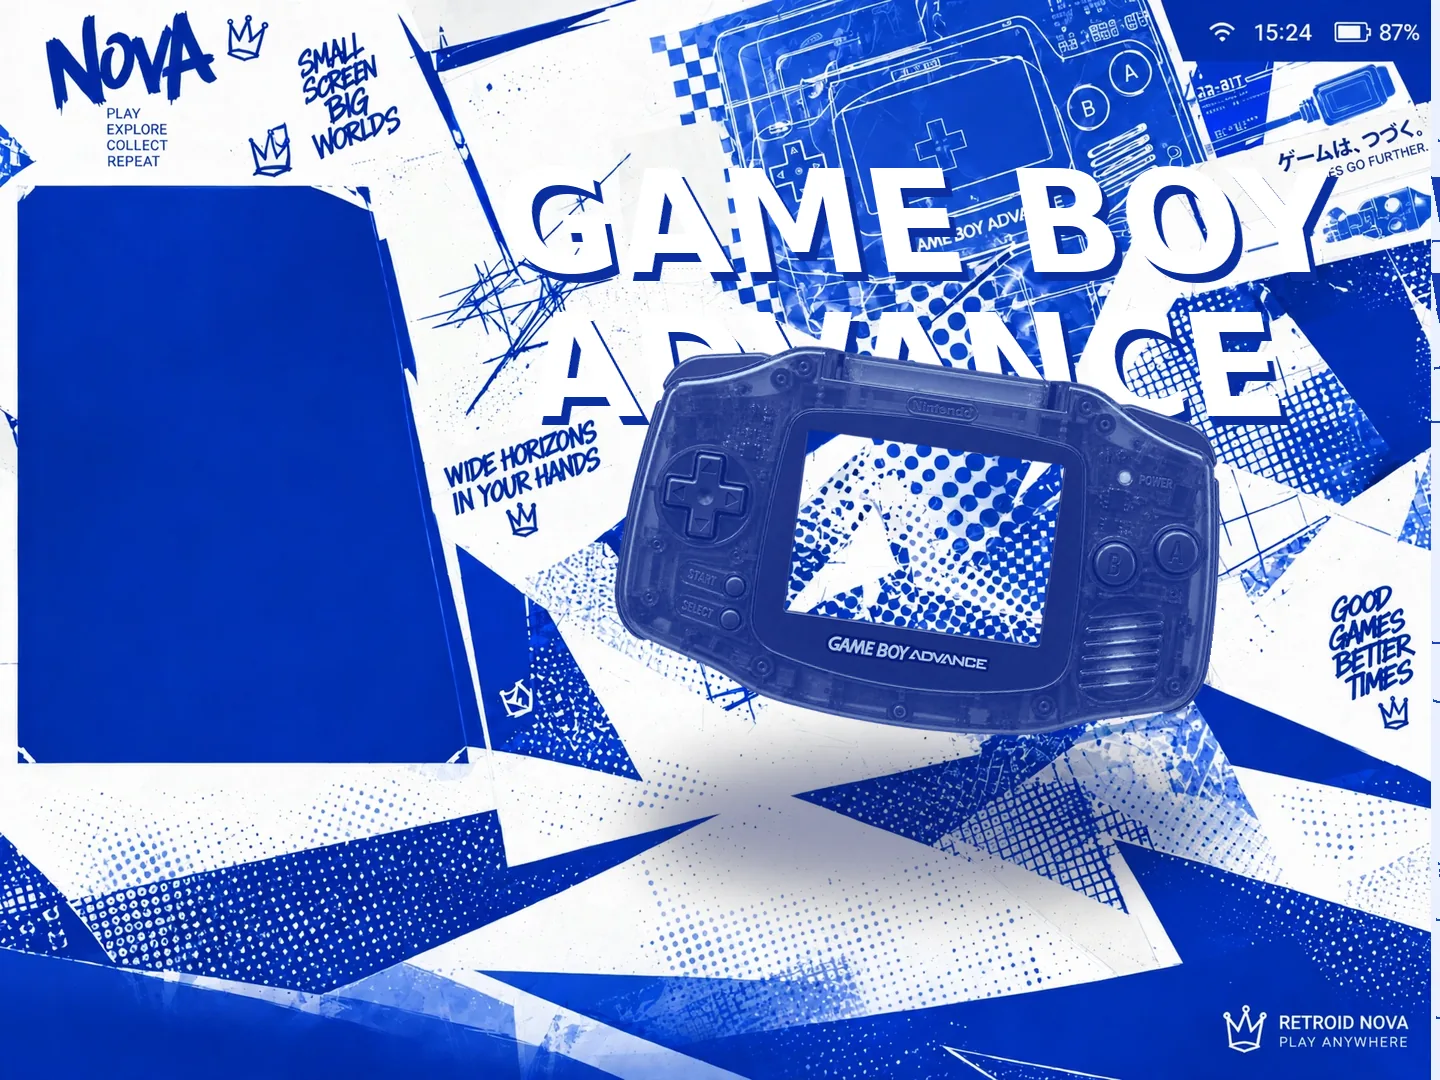
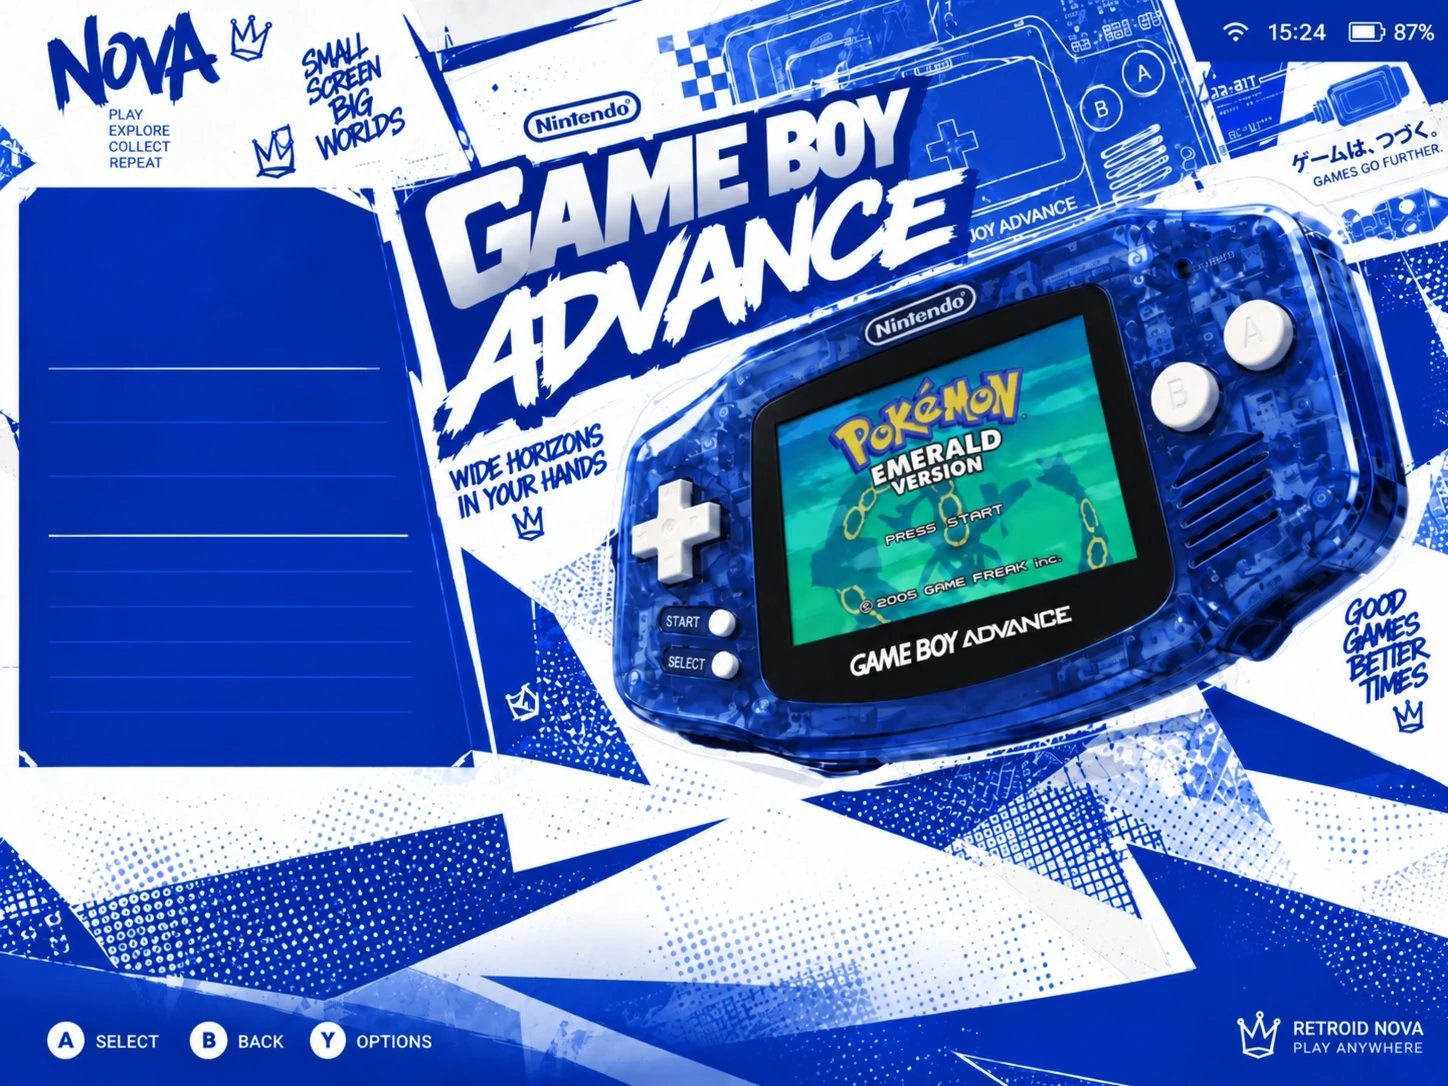
v3.4.0: 7 new supplied 4:3 heroes (gba, nds, psp, ps2, dreamcast, genesis, megadrive)

diff --git a/work/compose_v34.py b/work/compose_v34.py
@@ -1,0 +1,61 @@
+#!/usr/bin/env python3
+"""Crystal ES-DE v3.4.0: integrate the 7 new supplied 4:3 heroes.
+
+Each source file was READ (not guessed from attachment order) and verified
+to depict the system it is mapped to:
+  gba       -> d9: GAME BOY ADVANCE (Pokemon Emerald)
+  nds       -> 73: NINTENDO DS (Pokemon Diamond)
+  psp       -> 0c: PLAYSTATION PORTABLE PSP (God of War: Chains of Olympus)
+  ps2       -> 55: PlayStation 2 (DualShock 2)
+  dreamcast -> c2: Dreamcast "GOOD GAMES LIVE ON" (blue spiral)
+  genesis   -> da: SEGA GENESIS
+  megadrive -> 4f: SEGA MEGA DRIVE
+The unused Dreamcast alternate (95: "IT'S THINKING", orange spiral) also
+passes the vet; it was skipped in favour of the blue-spiral variant which
+sits better in Crystal's blue/white language.
+
+All pass the design-language vet and the 4:3 contract: they render DIRECTLY
+as fullscreen backgrounds, zero matte, zero bars, no crop, no stretch.
+Re-sent files already integrated (snes, gc, n64, gbc, n3ds) are untouched.
+"""
+import os
+import sys
+
+sys.path.insert(0, os.path.dirname(os.path.abspath(__file__)))
+from PIL import Image
+import compose_v3 as C3
+
+MEDIA = '/home/hatch/workspace/user/media_library/image'
+OUT_BG = C3.OUT_BG
+
+# system -> (filename, verified description)
+HEROES = {
+    'gba': ('d9/d92a4a1770b32cb0f735f9036f4d113a23263cc4e49515bec9ccbedf087ba763.jpg',
+            'GAME BOY ADVANCE'),
+    'nds': ('73/732a1a8500aa3499dcfa809e4510d157afc7aaf1cdc95530dea9cea353ed7e9d.jpg',
+            'NINTENDO DS'),
+    'psp': ('0c/0cb230445feb89e548ff14962a27ad877789c48acb2885aa4a93c22f0e0a162d.jpg',
+            'PLAYSTATION PORTABLE PSP'),
+    'ps2': ('55/5560d041caa0b2c5c330ff6fb294ca2e3f8844715f1a6b6f1ab1077e472c08f2.jpg',
+            'PlayStation 2'),
+    'dreamcast': ('c2/c2f82423acaa58ac5dc06209e0a410fa4796487202b6dce80baf58acd96debd6.jpg',
+                  'Dreamcast GOOD GAMES LIVE ON'),
+    'genesis': ('da/dabd249a36f0be9b9c0222cd82bb52bef9676498c65d2c2aa6511d9c602e3dd4.jpg',
+                'SEGA GENESIS'),
+    'megadrive': ('4f/4f5a479928fe899757b84520cd70191d91edbefb21c9483fee707847c1d5826a.jpg',
+                  'SEGA MEGA DRIVE'),
+}
+
+
+def main():
+    for sys, (rel, desc) in HEROES.items():
+        src = os.path.join(MEDIA, rel)
+        im = Image.open(src).convert('RGB')
+        assert abs(im.size[0] / im.size[1] - 4 / 3) < 0.01, f'{sys} not 4:3: {im.size}'
+        im.save(os.path.join(OUT_BG, f'{sys}.webp'), 'WEBP', quality=88, method=6)
+        print('hero', sys, im.size, '-', desc)
+    print('DONE')
+
+
+if __name__ == '__main__':
+    main()
